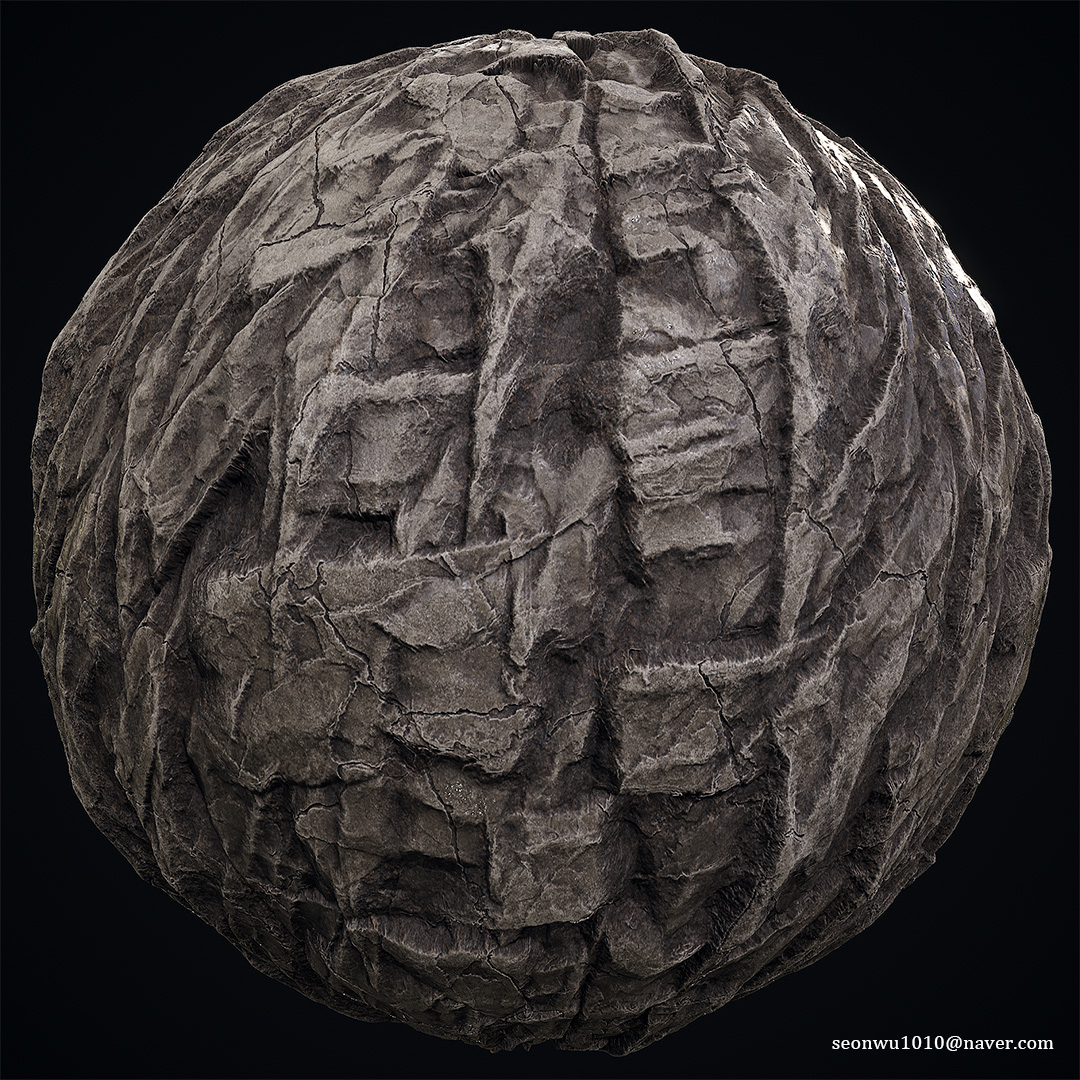
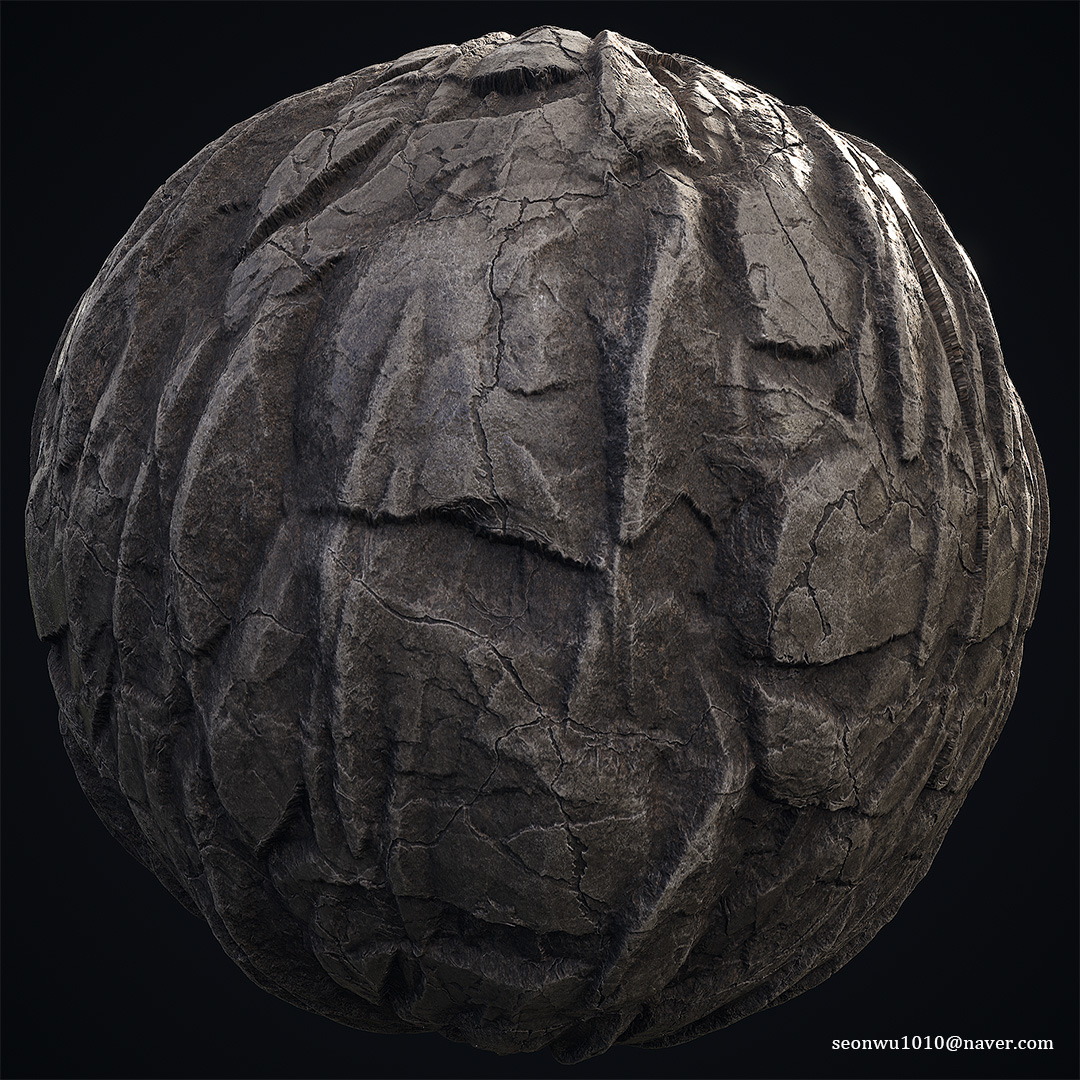
Update Substance textures and detail-only gallery ordering

diff --git a/app.js b/app.js
@@ -12,10 +12,10 @@ const projects = [
 const substanceProjects = [
   {id:'substance-texture-2', title:'BLUE TILE', category:'Substance Designer', type:'Texture', date:'', cover:'Substance Designer/2.jpg', images:['Substance Designer/2.jpg']},
   {id:'substance-tile', title:'TILE', category:'Substance Designer', type:'Texture', date:'', cover:'Substance Designer/1.jpg', images:['Substance Designer/1.jpg'], detailOnly:true},
-  {id:'substance-texture-3', title:'BRICK', category:'Substance Designer', type:'Texture', date:'', cover:'Substance Designer/3.jpg', images:['Substance Designer/3.jpg']},
+  {id:'substance-texture-3', title:'BRICK', category:'Substance Designer', type:'Texture', date:'', cover:'Substance Designer/3.jpg', images:['Substance Designer/3.jpg'], detailOnly:true},
   {id:'substance-texture-4', title:'CHAINMAIL', category:'Substance Designer', type:'Texture', date:'', cover:'Substance Designer/4.jpg', images:['Substance Designer/4.jpg']},
-  {id:'substance-texture-5', title:'RED TILE', category:'Substance Designer', type:'Texture', date:'', cover:'Substance Designer/5.jpg', images:['Substance Designer/5.jpg']},
   {id:'substance-texture-6', title:'WORN RED TILE', category:'Substance Designer', type:'Texture', date:'', cover:'Substance Designer/6.jpg', images:['Substance Designer/6.jpg']},
+  {id:'substance-texture-5', title:'RED TILE', category:'Substance Designer', type:'Texture', date:'', cover:'Substance Designer/5.jpg', images:['Substance Designer/5.jpg'], detailOnly:true},
   {id:'substance-texture-7', title:'SOFA', category:'Substance Designer', type:'Texture', date:'', cover:'Substance Designer/7.jpg', images:['Substance Designer/7.jpg']},
   {id:'substance-texture-8', title:'WOOD', category:'Substance Designer', type:'Texture', date:'', cover:'Substance Designer/8.jpg', images:['Substance Designer/8.jpg']},
   {id:'substance-texture-9', title:'QUILTED FABRIC', category:'Substance Designer', type:'Texture', date:'', cover:'Substance Designer/9.jpg', images:['Substance Designer/9.jpg']},
@@ -23,6 +23,8 @@ const substanceProjects = [
   {id:'substance-texture-11', title:'BLUE QUILTED FABRIC', category:'Substance Designer', type:'Texture', date:'', cover:'Substance Designer/11.jpg', images:['Substance Designer/11.jpg'], detailOnly:true},
   {id:'substance-texture-12', title:'METAL', category:'Substance Designer', type:'Texture', date:'', cover:'Substance Designer/12.jpg', images:['Substance Designer/12.jpg']},
   {id:'substance-texture-13', title:'ROCK', category:'Substance Designer', type:'Texture', date:'', cover:'Substance Designer/13.jpg', images:['Substance Designer/13.jpg']},
+  {id:'substance-texture-14', title:'RED BRICK', category:'Substance Designer', type:'Texture', date:'', cover:'Substance Designer/14.jpg', images:['Substance Designer/14.jpg']},
+  {id:'substance-texture-15', title:'ROOF TILE', category:'Substance Designer', type:'Texture', date:'', cover:'Substance Designer/15.jpg', images:['Substance Designer/15.jpg']},
 ];
 const substanceDescription = 'Substance 3D Designer를 활용하여 다양한 재질의 텍스처를 제작한 개인 작업입니다. 재질별 특징과 표면 디테일을 표현하며 텍스처 제작 과정을 익혔습니다.';
 const universityProjects = [
@@ -66,6 +68,7 @@ const projectDescriptions = {
 const byId = Object.fromEntries([...projects, ...substanceProjects, ...universityProjects].map(project => [project.id, project]));
 // Refresh renamed/replaced images even when the browser cached the same filename.
 const imageRevisions = {
+  "Substance Designer/13.jpg": "9810d185a970",
   "University Project/Kirna/1.png": "dedcf52c48f2",
   "University Project/Kirna/2.png": "e814667206a2",
   "University Project/Kirna/3.png": "66e51db14594",
